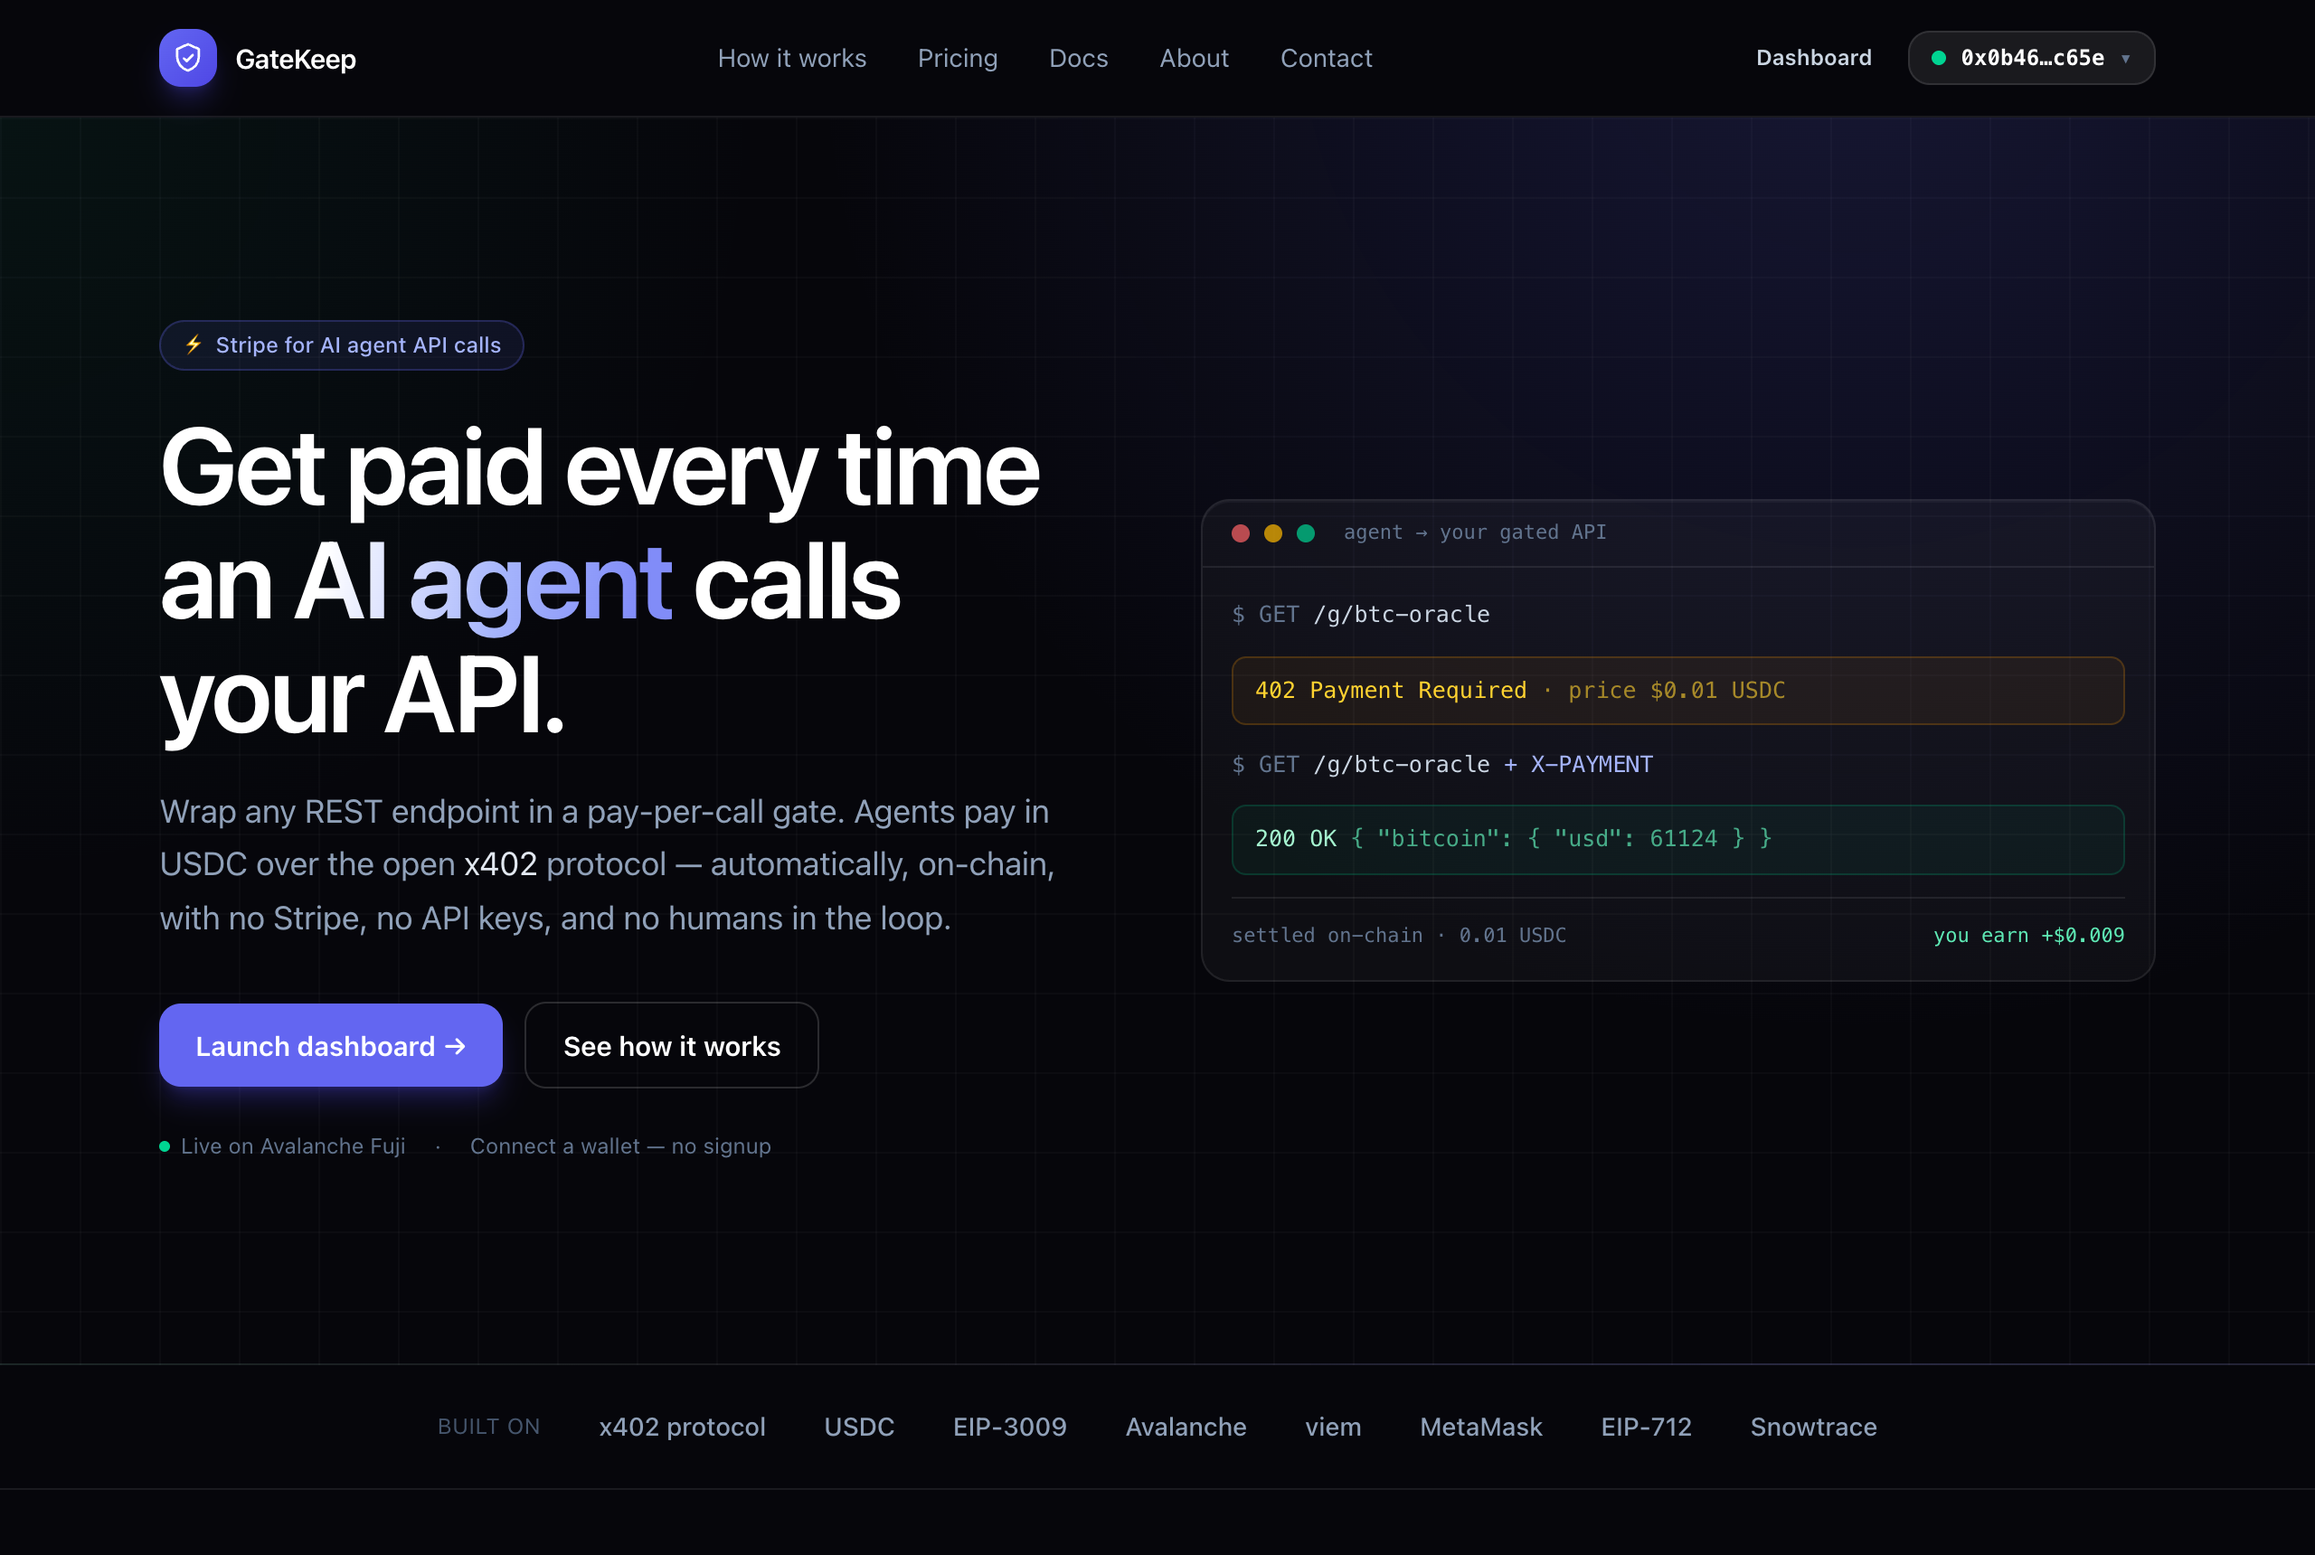
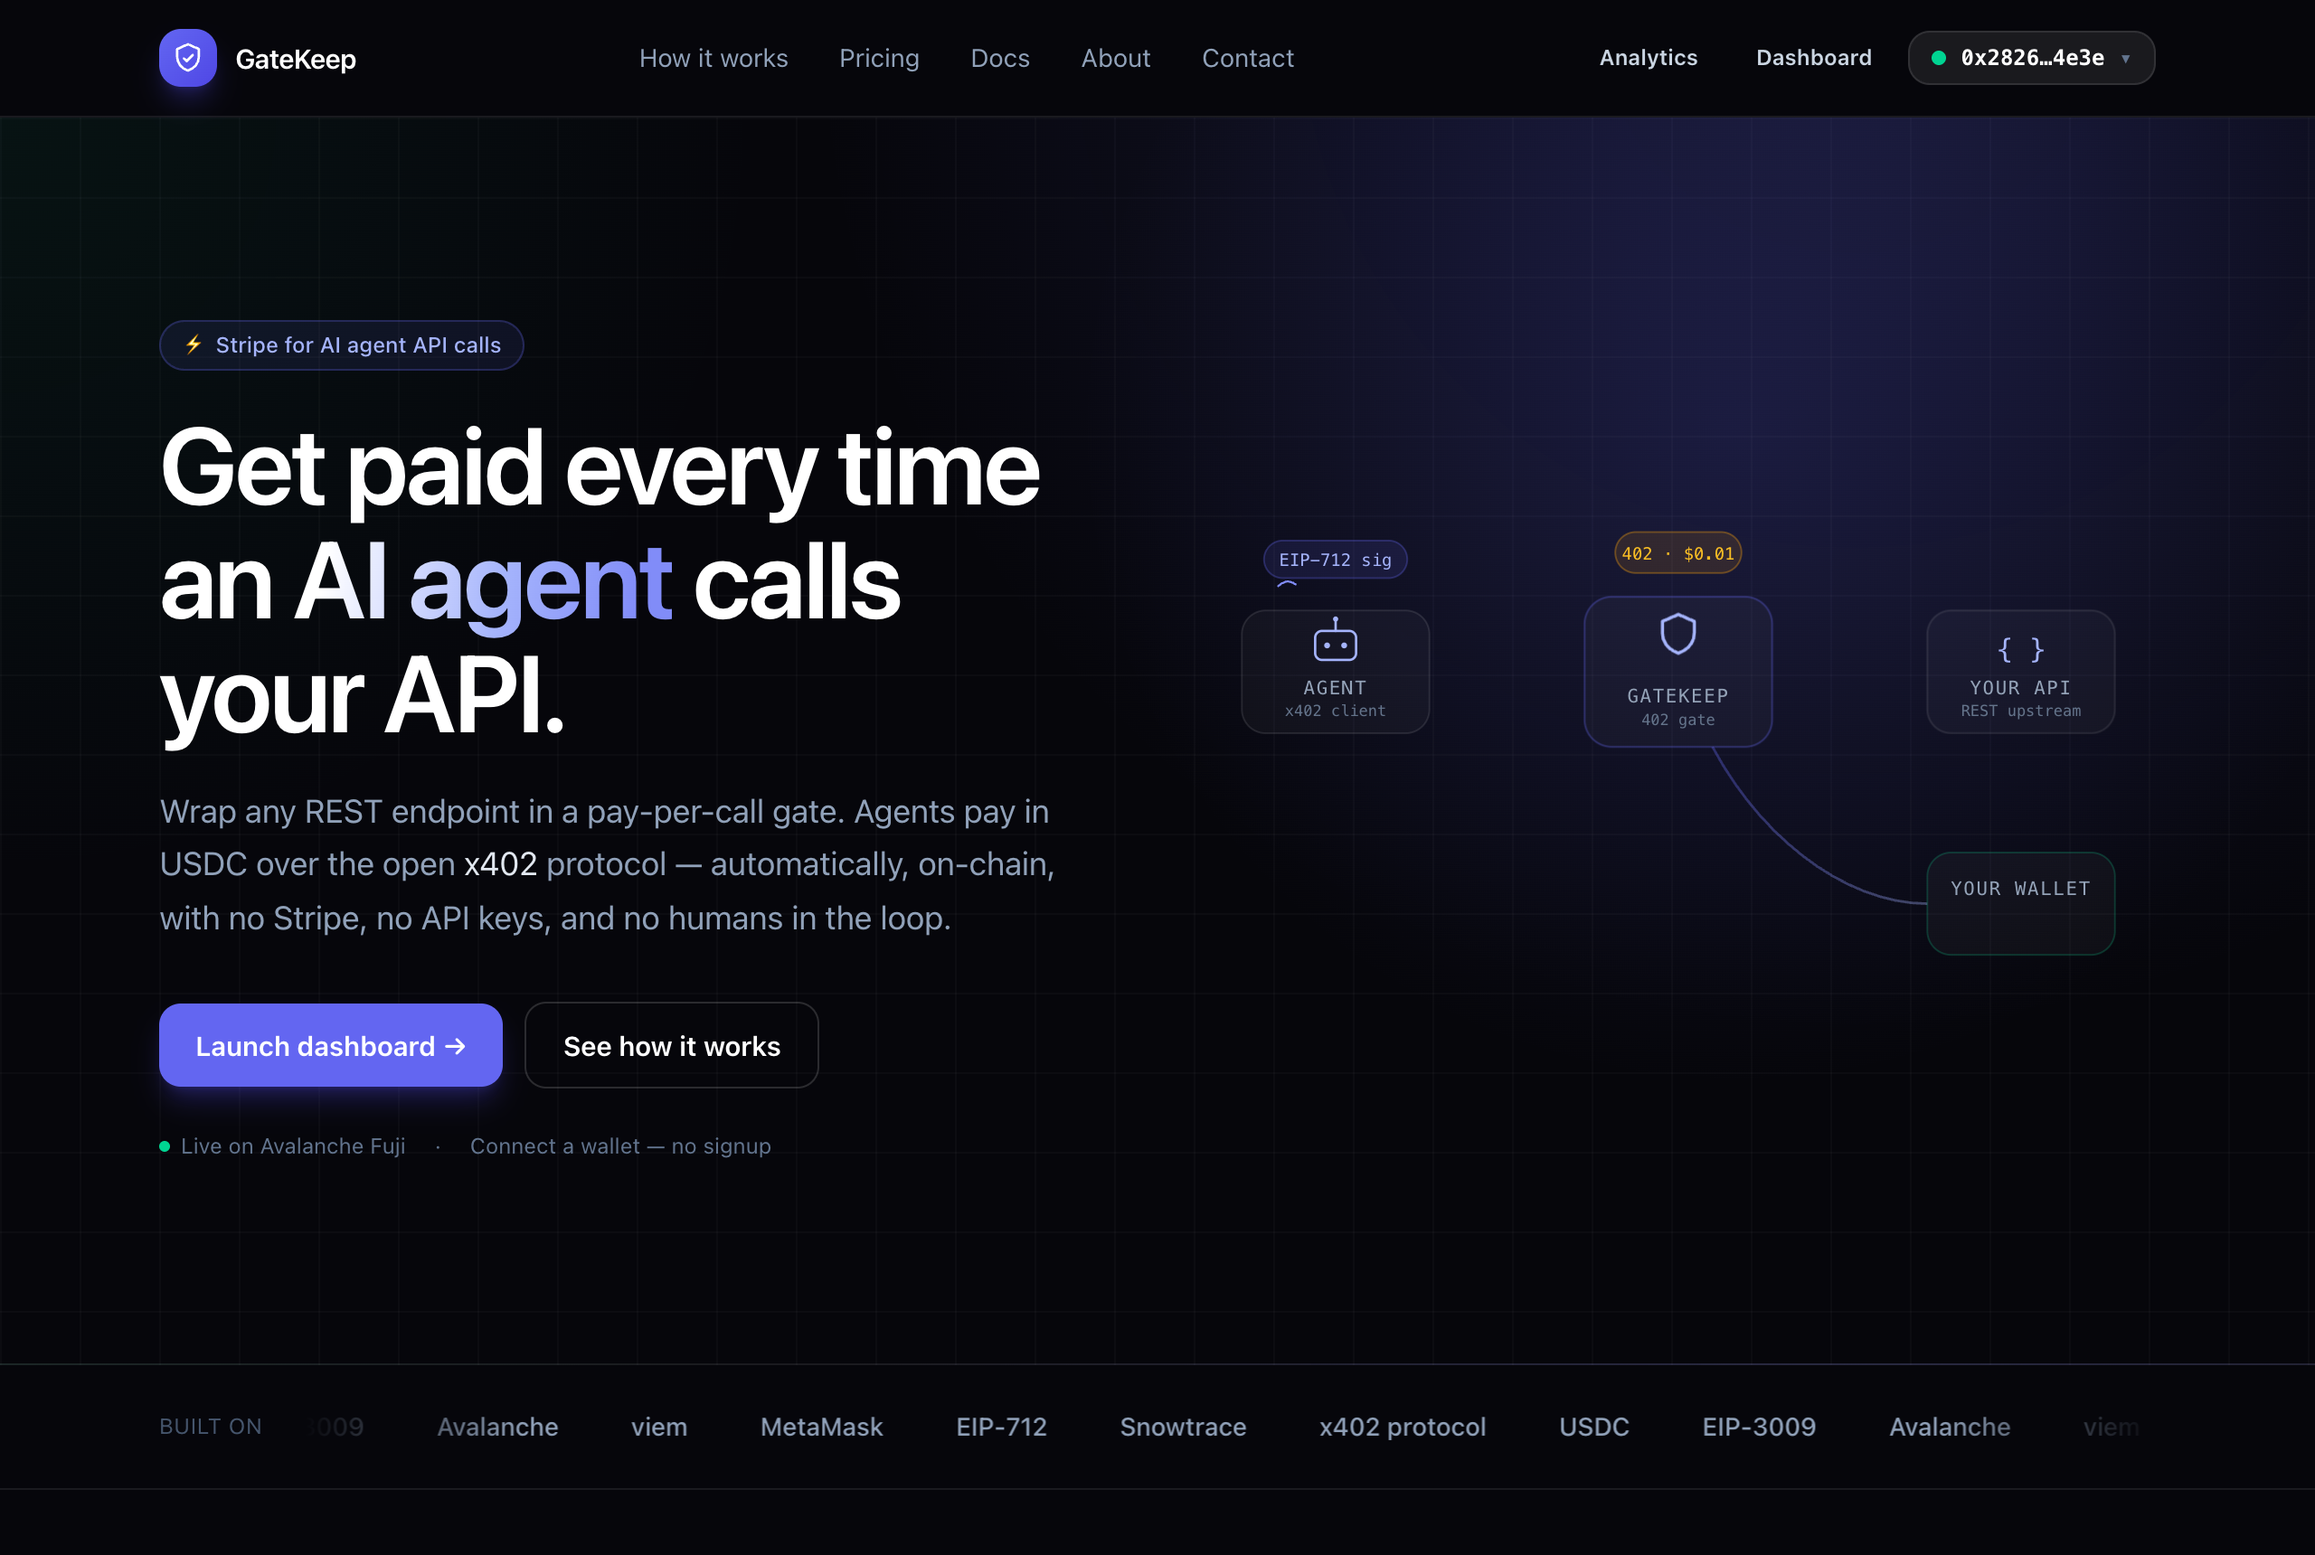
docs: refresh screenshots (animated landing + new analytics page)
- scripts/screenshots.mjs: seed demo traffic and capture /app/analytics
- regenerate all product screenshots at 2× DPI (landing now shows the animated
  x402 hero flow; new analytics.png)
- README: feature the analytics dashboard in the demo section

diff --git a/README.md b/README.md
@@ -51,7 +51,11 @@ An AI agent paying a gated API from the terminal — `402 → sign → 200`, set
 
 ![Agent paying a gate from the CLI](docs/images/agent-demo.gif)
 
-| Landing | Seller dashboard |
+**Analytics dashboard** — revenue & call time-series, per-endpoint breakdown, agent leaderboard, latency percentiles, and status-code splits (hand-rolled SVG charts, zero chart deps):
+
+[![Analytics dashboard](docs/images/analytics.png)](docs/images/analytics.png)
+
+| Landing (animated x402 flow) | Seller dashboard |
 | --- | --- |
 | [![Landing](docs/images/landing.png)](docs/images/landing.png) | [![Dashboard](docs/images/dashboard.png)](docs/images/dashboard.png) |
 
